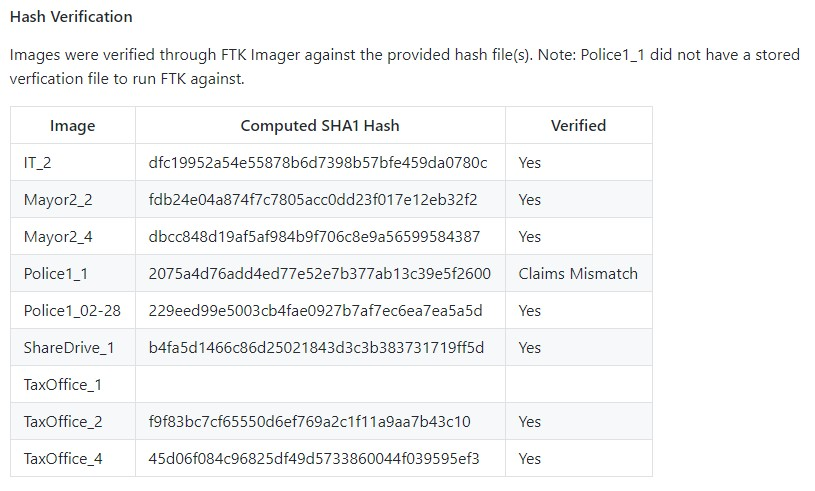
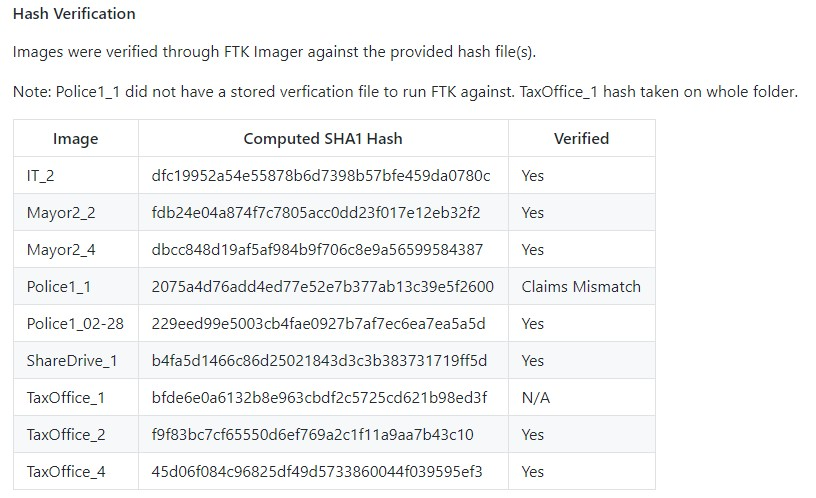
Update

diff --git a/StatusReport1.md b/StatusReport1.md
@@ -9,19 +9,22 @@ Team 1
 
 ### Data Description BLUF
 
-The client provided our team with ~4 days of network traffic data, 8 disk images, 7 memory dumps, and about 90,000 log events. All of this data resides within the client's LAN.
+The client provided our team with ~4 days of network traffic data, 9 disk images, 7 memory dumps, and about 90,000 log events. All of this data resides within the client's LAN.
 
 Network analysis shows large amounts of traffic travelling between the assumed Domain Controller at 192.168.100.10 and all other hosts on the network.
 
 Disk image analysis shows large amounts of PII on the network's shared drive.
 
-Memory dump analysis shows _possibly malicious processes_
+Memory dump analysis shows possibly malicious processes spaceman.exe and unsecapp.exe on WinServer_3. We are unsure of how these processes were initiated, but will continue to investigate.
 
 Log analysis shows _purely IMAP mail_ traffic travelling between _192.168.100.21 (mail server?)_ and other hosts.
 
 ### Network Data
 1. How many months/weeks/days/hours/minutes worth of network data do you have? **4 days, 7 hours, 45 minutes and 55 seconds**
-2. How many packets? **12,315,047 - Note: "Killed" exception thrown on 02-27-2020_1.4 that may have affected total packet count.**
+2. How many packets? **12,334,058**
+  - Note: "Killed" exception thrown on 02-27-2020_1.4 that may have affected total packet count.
+  - Running `tshark -r 02-27-2020_1.4 | wc` returns 1,565,197 lines/packets
+  - Running `countpack()` without `02-27-2020_1.4` returns 10,768,861
   ```
   def countpack():
       counter = 0
@@ -51,7 +54,7 @@ IT_2          | Network Analysis and Topologies | admin, Administrator, DouglasA
 Mayor2_2      |                                 | SoniaTheodore, HelenJackson, ShirleyAbdulla, Administratror, admin, Guest
 Mayor2_4      |                                 |
 Police1_1     |                                 | ThomasFord, administrator, admin, Guest, Administrator
-Police1_02-28 | | 
+Police1_02-28 | |
 ShareDrive_1  | Means of sharing office data    |
 TaxOffice_1   |                                 |
 TaxOffice_2   |                                 |
@@ -113,6 +116,7 @@ def logcount():
 
 ### Indicators of Compromise
   - spaceman.exe and unsecapp.exe on WinServer_3 memory dump
+  - Encrypted data on ShareDrive_4
 
 ### Questions and Concerns
 1. Identify any questions you have for the client
